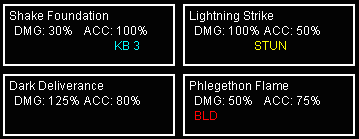
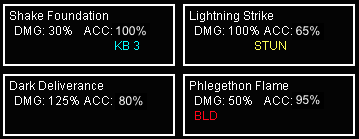
New Accuracies

diff --git a/Attack.java b/Attack.java
@@ -53,7 +53,7 @@ class Attack extends RadioButton{
 				this.Name = name;
                                 this.ID = 2;
 				this.Damage = 100; 
-				this.Accuracy = 85;
+				this.Accuracy = 90;
 				this.CausesBleeding = false;
 				this.Poisons = false;
 				this.Stuns = false;
@@ -193,7 +193,7 @@ class Attack extends RadioButton{
 				this.Name = name;
                                 this.ID = 2;
 				this.Damage = 100; 
-				this.Accuracy = 50;
+				this.Accuracy = 65;
 				this.CausesBleeding = false;
 				this.Poisons = false;
 				this.Stuns = true;
